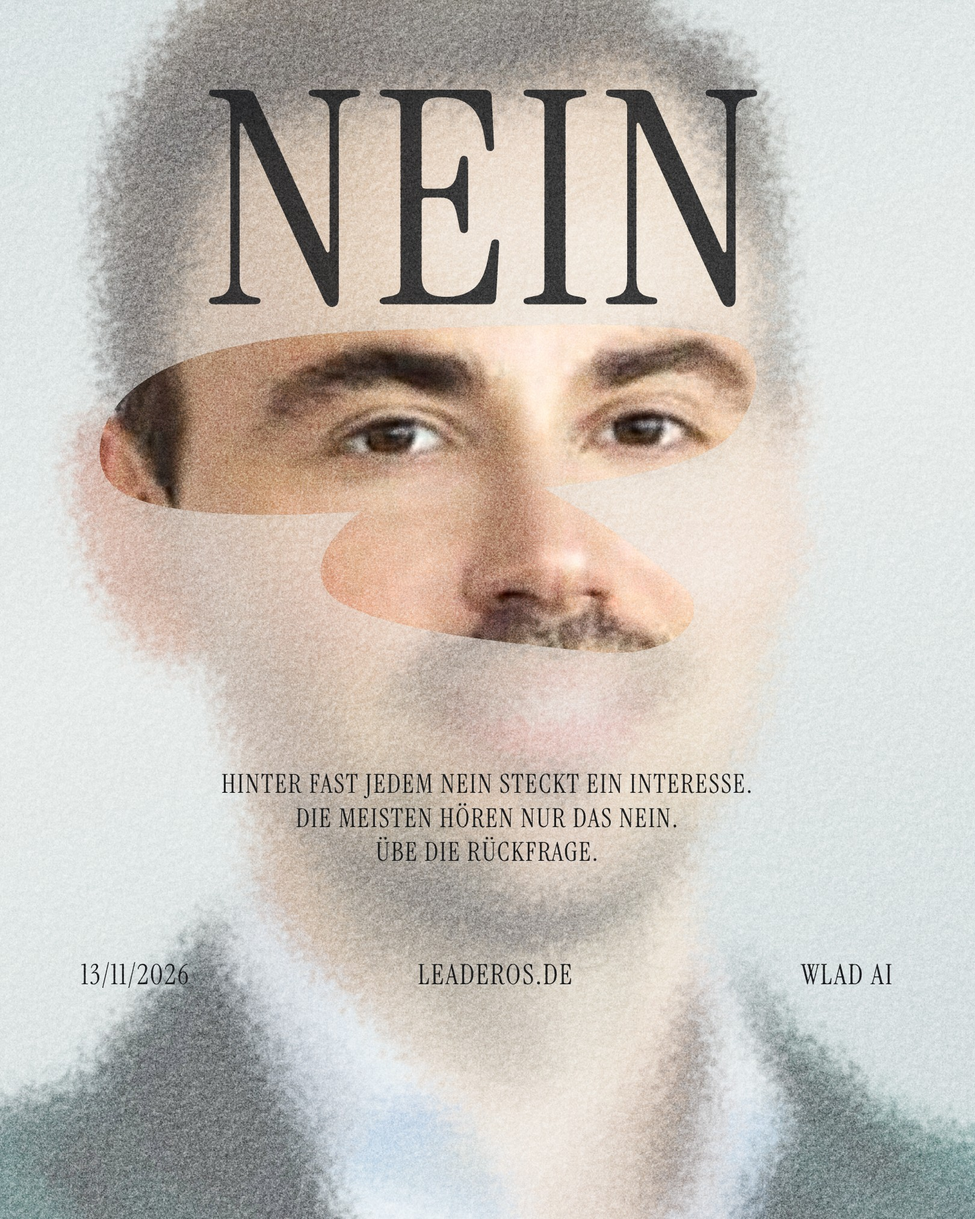
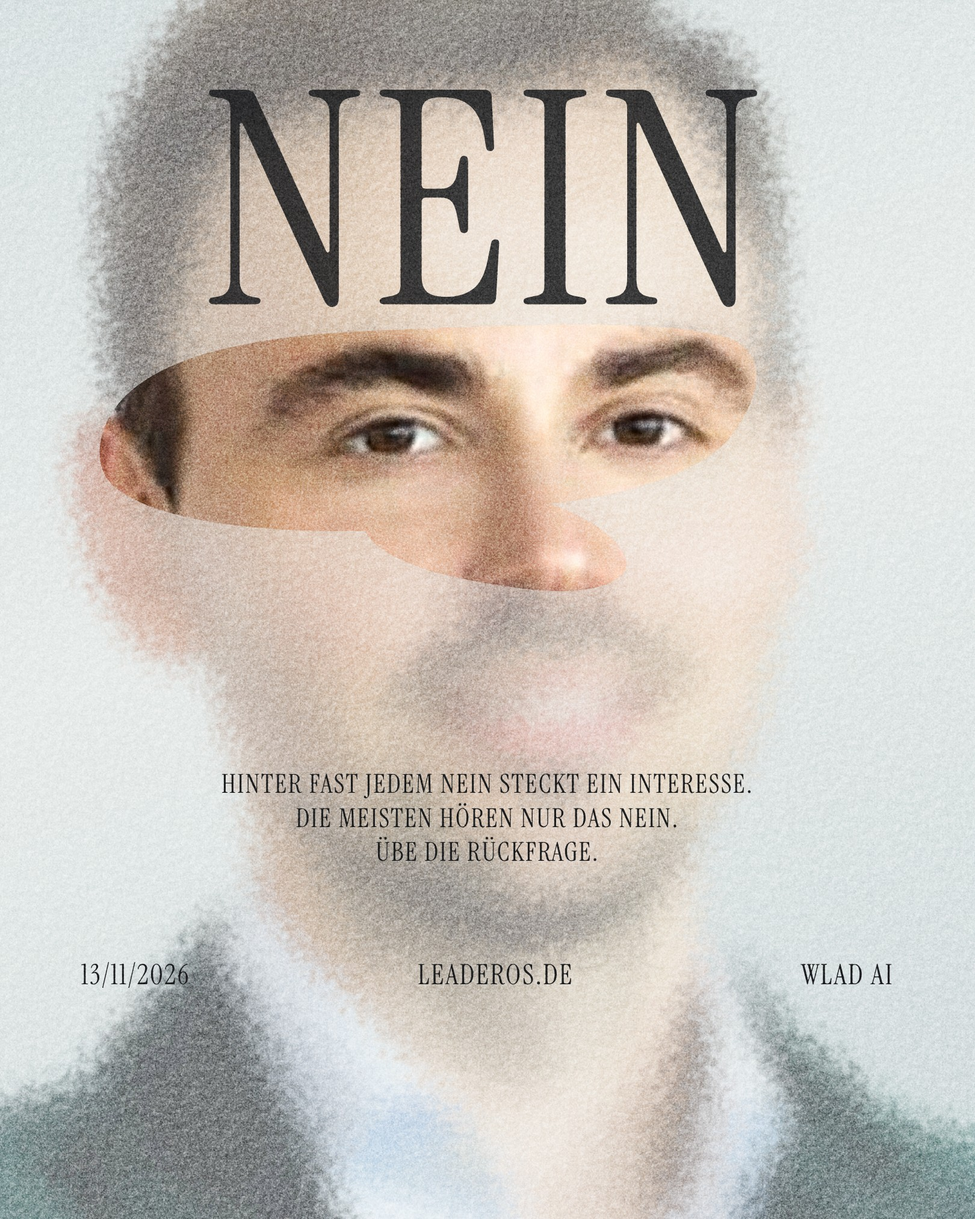
Social: Motiv Nein, freigewischter Streifen nur über den Augen
Der Streifen endete am Oberlippenbart und ließ den Bart falsch wirken.

Claude-Session: https://claude.ai/code/session_01HvYhQa8TWys2AAXqNzfktV

Changed region(s): [[0.1543, 0.4044, 0.7099, 0.56]]

diff --git a/docs/gtm/post-rauschen-01/nein.html b/docs/gtm/post-rauschen-01/nein.html
@@ -22,7 +22,7 @@ html,body{background:#222}
 <svg width="0" height="0" style="position:absolute"><defs>
   <filter id="glass" x="-5%" y="-5%" width="110%" height="110%"><feTurbulence type="fractalNoise" baseFrequency=".09" numOctaves="2" seed="4" result="n"/><feGaussianBlur in="SourceGraphic" stdDeviation="16" result="b"/><feDisplacementMap in="b" in2="n" scale="46" xChannelSelector="R" yChannelSelector="G"/></filter>
   <filter id="pebble"><feTurbulence type="fractalNoise" baseFrequency=".11" numOctaves="2" seed="9" result="n"/><feSpecularLighting in="n" surfaceScale="2.2" specularConstant=".9" specularExponent="18" lighting-color="#fff"><feDistantLight azimuth="235" elevation="52"/></feSpecularLighting></filter>
-  <clipPath id="wipe"><path d="M118 468 C150 400 260 372 420 366 C560 360 720 352 800 372 C850 386 846 430 816 474 C790 512 700 530 600 540 C640 560 700 600 760 652 C790 690 740 730 660 722 C560 712 430 700 372 664 C340 640 356 600 400 566 C300 574 190 572 140 548 C108 532 104 500 118 468 Z"/></clipPath>
+  <clipPath id="wipe"><path d="M118 468 C150 400 260 372 420 366 C560 360 720 352 800 372 C850 386 846 430 816 474 C790 520 700 548 610 558 C650 572 688 596 694 622 C696 650 640 660 580 652 C500 642 424 624 404 588 C300 590 190 580 140 548 C108 532 104 500 118 468 Z"/></clipPath>
 </defs></svg>
 <div id="sheet"><div id="in" style="left:0;top:0;width:1080px;height:1350px">
   <div style="left:-60px;top:-300px;width:1200px;height:2300px;filter:url(#glass)"><img class="p" src="../social-kit/build/portrait.png" style="left:-350px;top:230px"></div>
